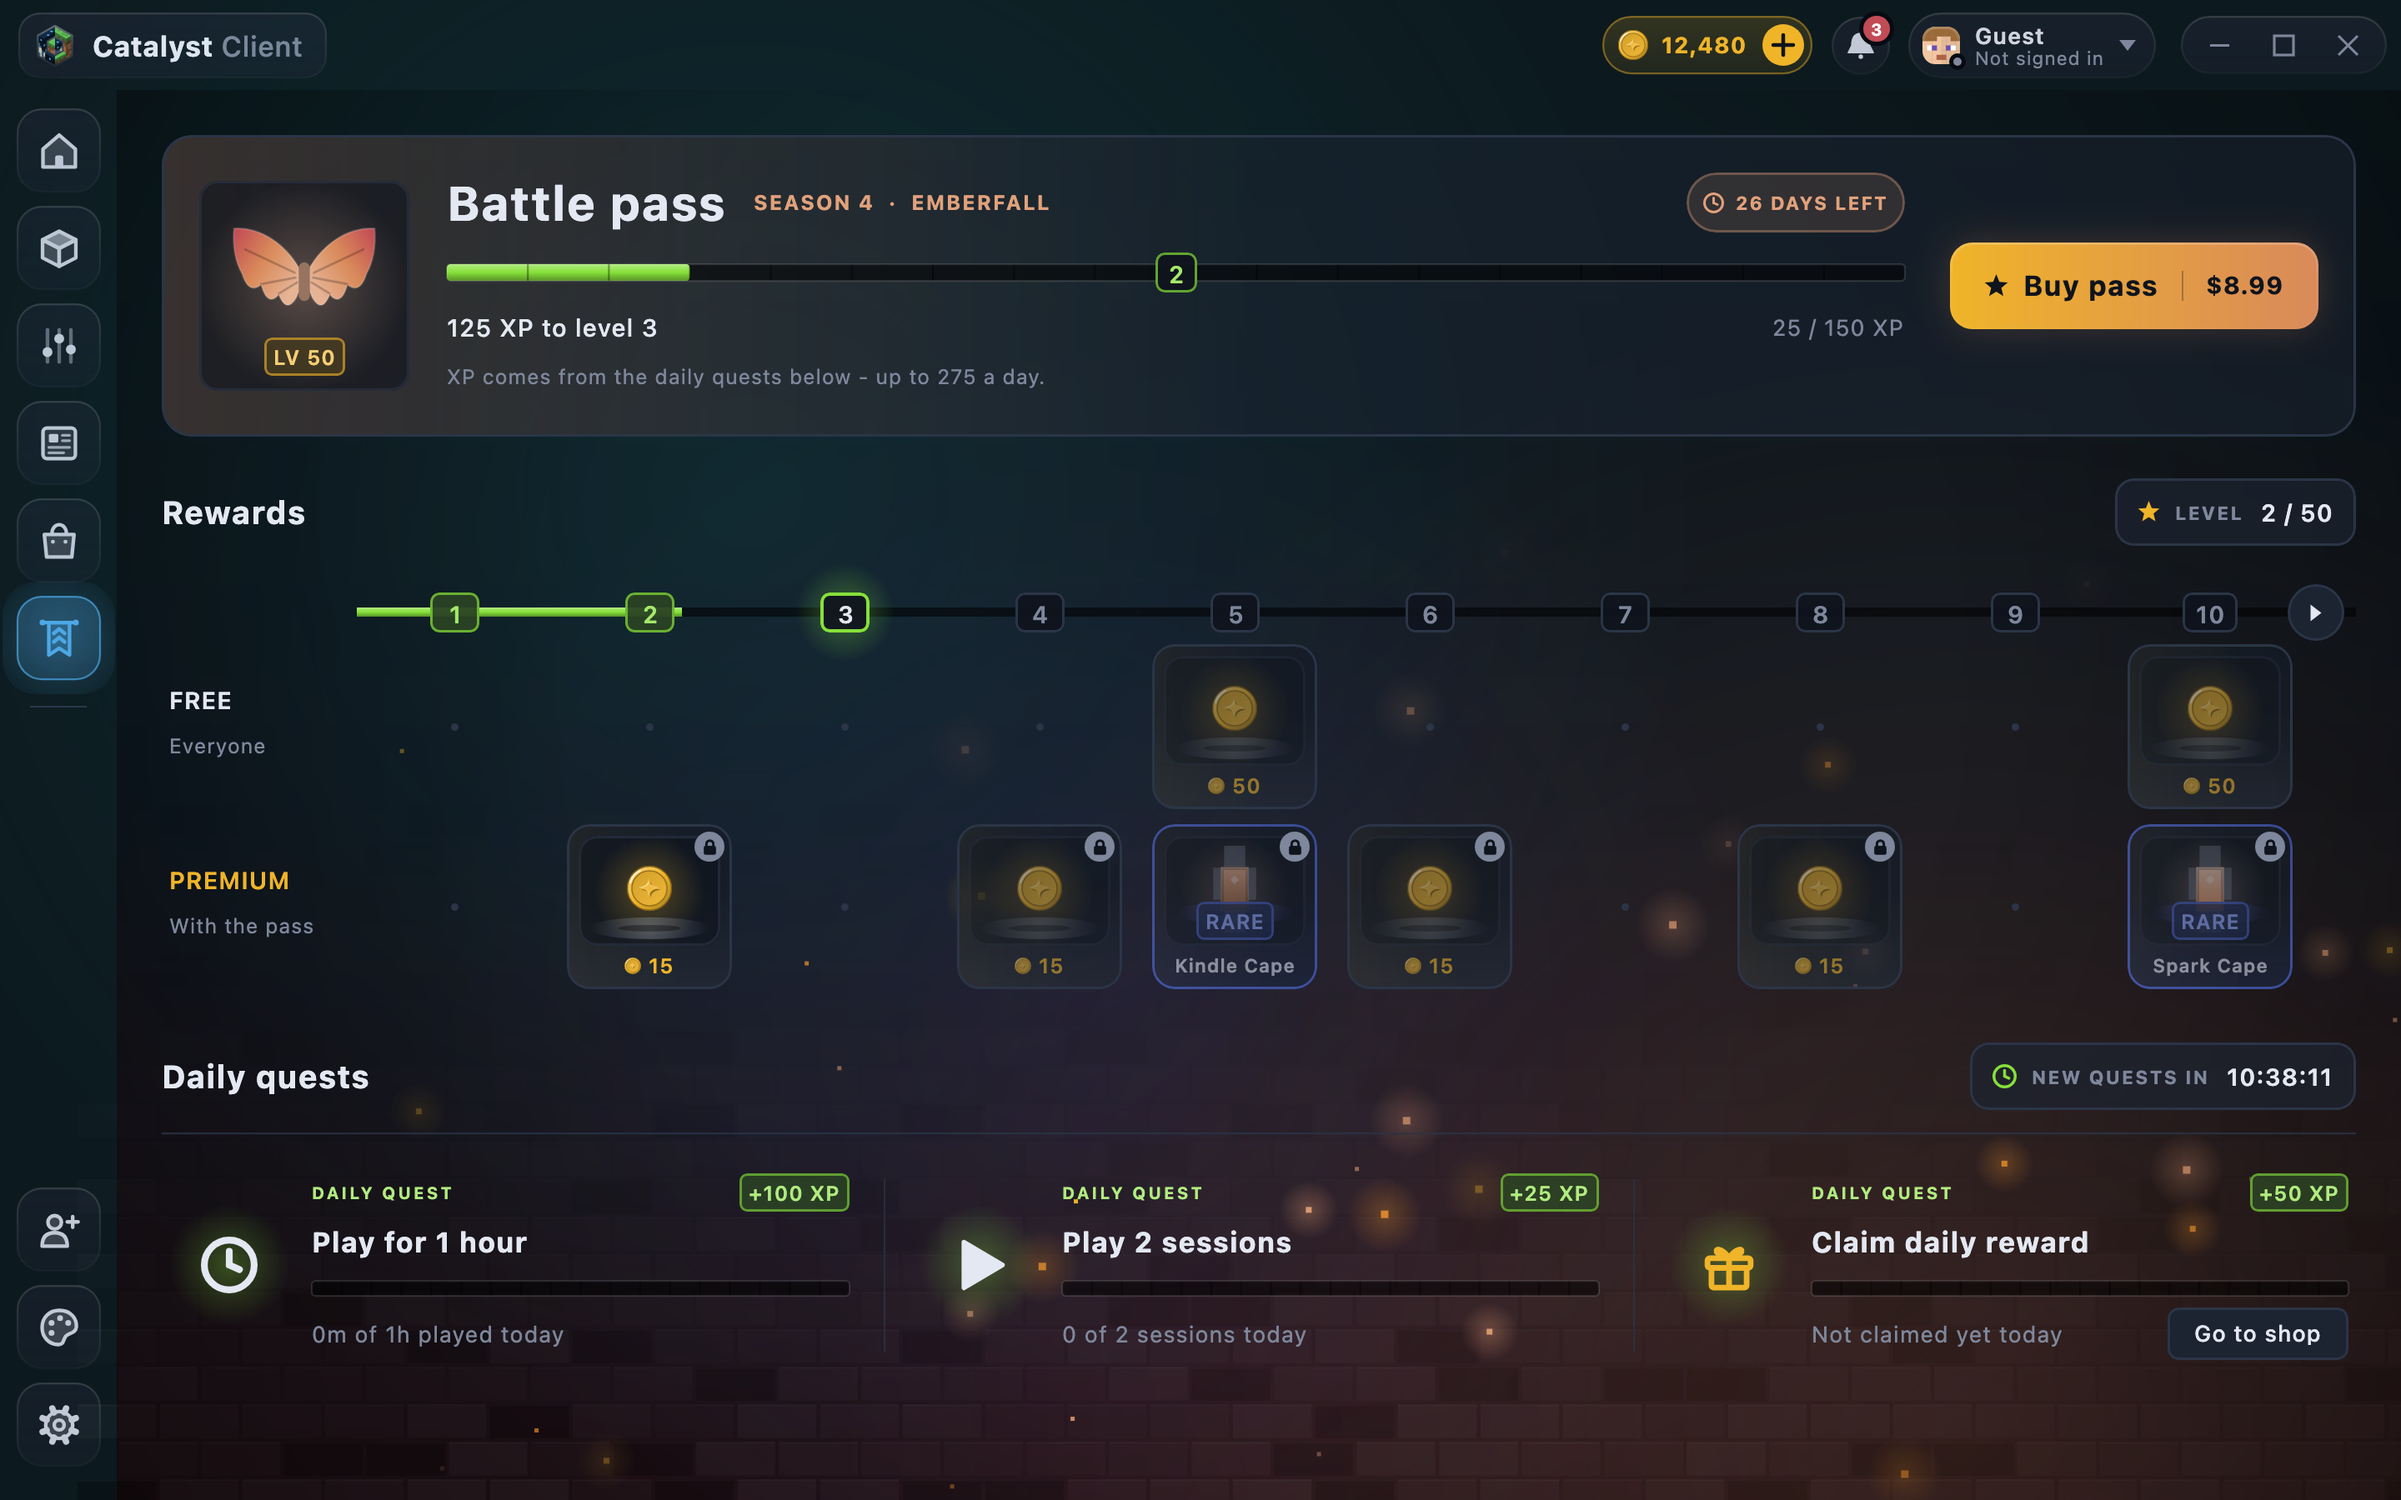
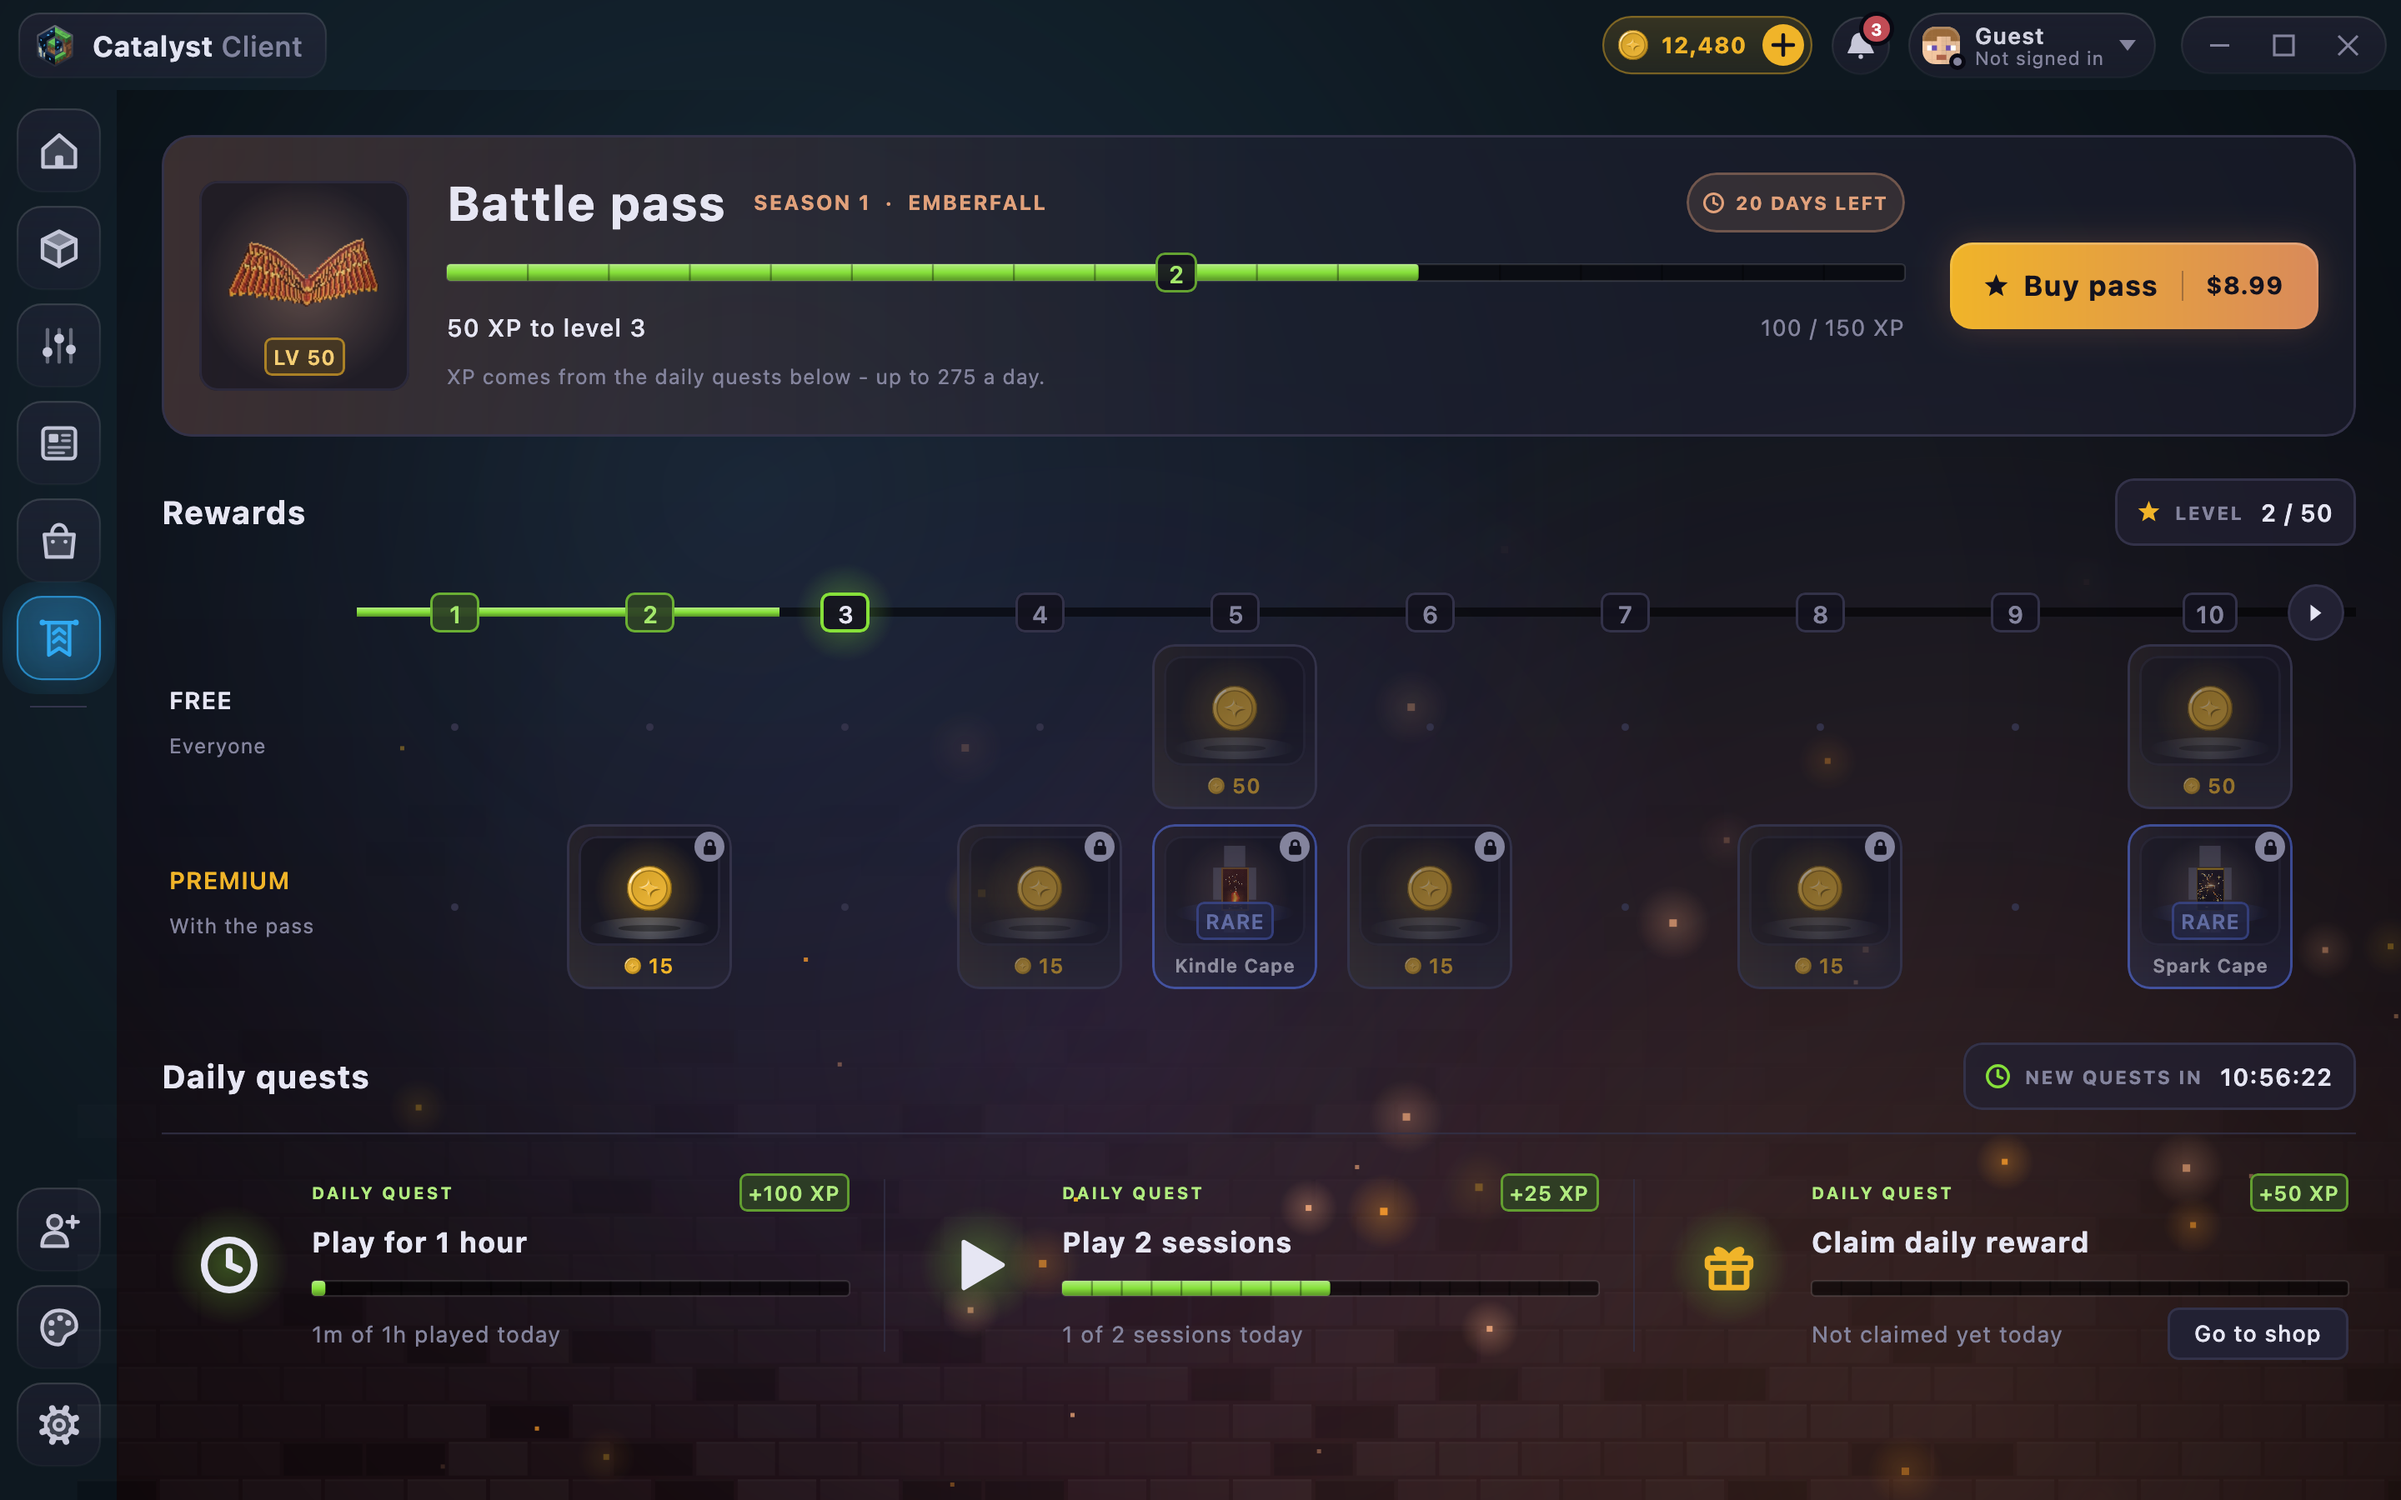
Season 1, and the real Right Shift menu on Made to look good
The pass is Season 1 (SEASON.number, and the tour's launcher screenshot re-rendered by
WebsiteShotsTest). The first feature card shows a cut-out of the client's own menu, tipped into the
corner, instead of the palette.

diff --git a/app/page.tsx b/app/page.tsx
@@ -79,7 +79,7 @@ const LAUNCHER_CHAPTERS: Chapter[] = [
     text: "Daily quests fill the bar - play an hour, play two sessions, open your daily card - and every level has something on the free lane or the pass.",
     points: [`Season ${SEASON.number}: ${SEASON.name}, ${SEASON.levels} levels`, "Up to 275 XP a day from quests", `The ${SEASON.headline} at level ${SEASON.levels}`],
     image: launcherPass,
-    alt: "The launcher's Battle Pass page: the Season 4 Emberfall bar, the free and premium reward lanes, and three daily quests",
+    alt: "The launcher's Battle Pass page: the Season 1 Emberfall bar, the free and premium reward lanes, and three daily quests",
   },
 ];
 
@@ -95,15 +95,16 @@ const PROFILE_MODS = [
 
 /**
  * The feature cards, after Pulse Visuals' grid: one thing each, with a picture of our own - pixel art drawn
- * for them (a palette in the launcher's theme colours, a bolt, an install arrow), a player's head, or a
+ * for them (a bolt, an install arrow), a player's head, the client's real Right Shift menu, or a
  * cosmetic the client ships - rendered by scripts/render-cosmetics.py
  * (the skies are the client's own screenshot). Grey until pointed at; the first is lit.
  */
-const FEATURE_CARDS: { title: string; text: string; image: string; href?: string; sky?: boolean; wide?: boolean }[] = [
+const FEATURE_CARDS: { title: string; text: string; image: string; href?: string; sky?: boolean; wide?: boolean; shot?: boolean }[] = [
   {
     title: "Made to look good",
     text: `A clean Right Shift menu, ${THEME_PRESETS.length} colour schemes or any colour you like, and a HUD you arrange by dragging.`,
-    image: "/features/palette.webp",
+    image: "/features/menu.webp",
+    shot: true,
   },
   {
     title: "Fast from the first launch",
@@ -369,6 +370,7 @@ export default function HomePage() {
                 i === 0 && styles.featureCardLit,
                 card.sky && styles.featureCardSky,
                 card.wide && styles.featureCardWide,
+                card.shot && styles.featureCardShot,
               ]
                 .filter(Boolean)
                 .join(" ");

diff --git a/app/home.module.css b/app/home.module.css
@@ -1567,6 +1567,21 @@ a.featureCard:hover {
 .featureCardSky:hover .cardImage {
   transform: scale(1.03);
 }
+/* The real menu, as a small window tipped into the corner. */
+.featureCardShot .cardImage {
+  right: -2.5rem;
+  bottom: -1.5rem;
+  width: 82%;
+  height: auto;
+  max-height: none;
+  border-radius: 0.5rem;
+  transform: rotate(-6deg);
+  box-shadow: 0 1rem 2.5rem -0.75rem rgba(0, 0, 0, 0.8);
+}
+.featureCardShot:hover .cardImage,
+.featureCardShot.featureCardLit .cardImage {
+  transform: rotate(-3deg) translateY(-0.5rem);
+}
 /* Phones can't point at a card: there the pictures are always in colour. */
 @media (hover: none) {
   .cardImage {
